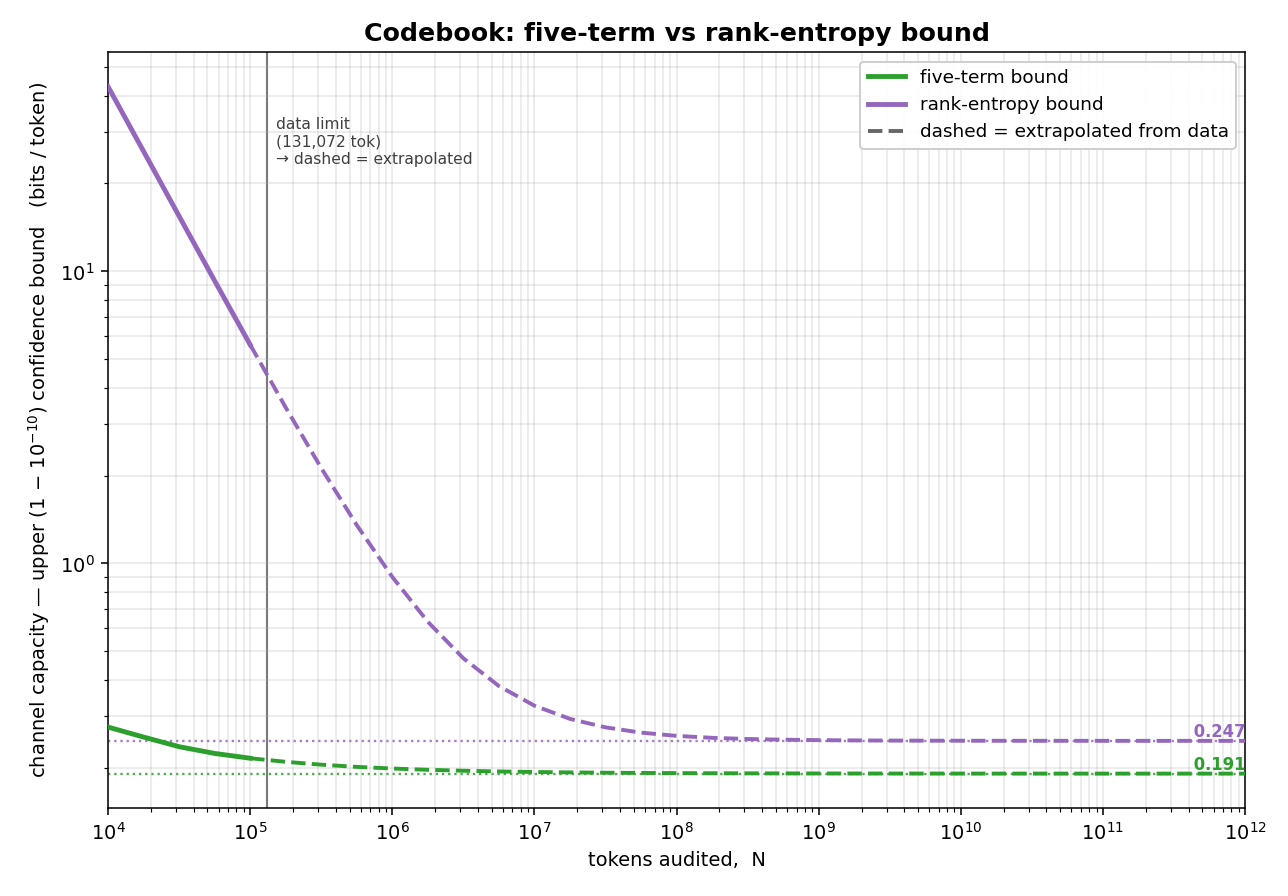
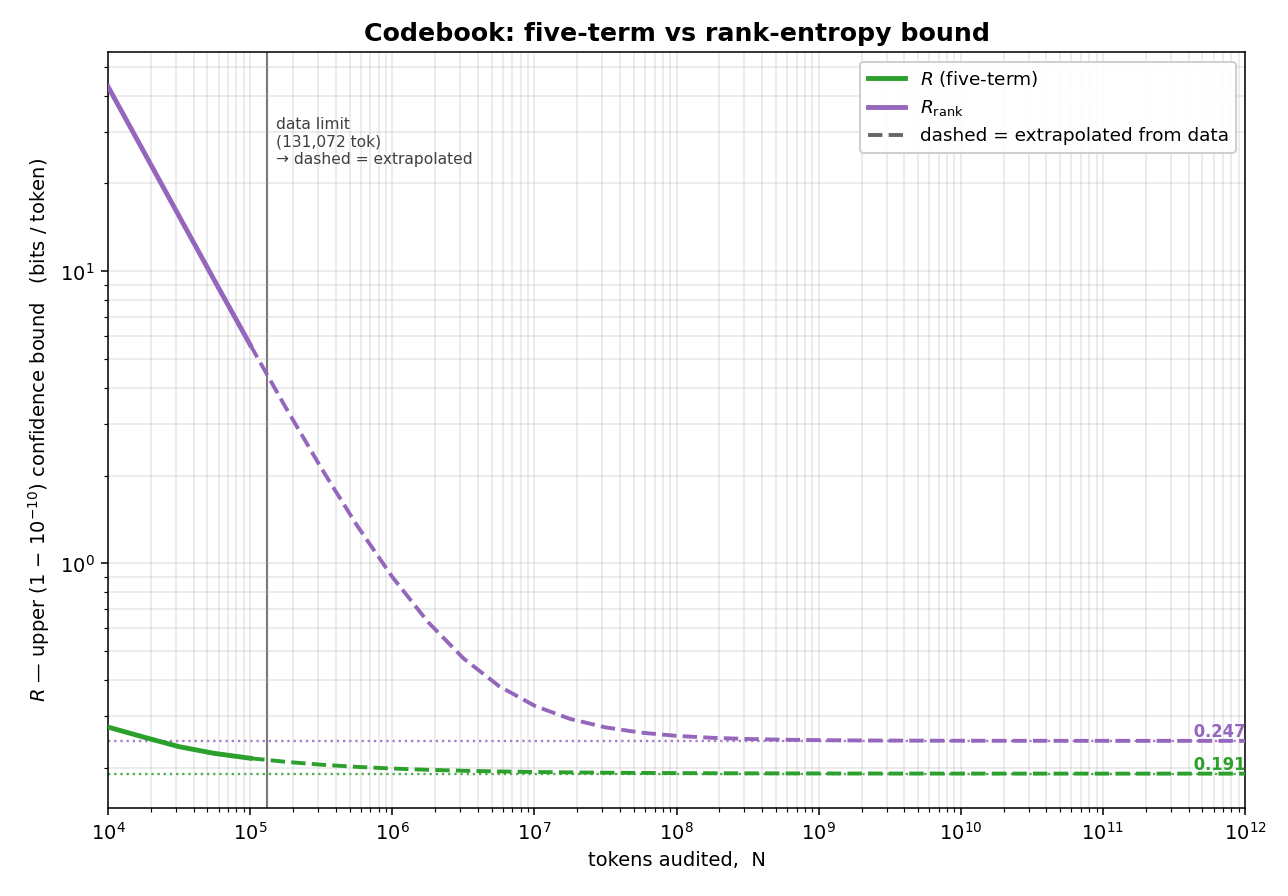
Rename y-axis to R_rank (plot 1) / R (plot 2, curves R 5-term vs R_rank)

diff --git a/buffer/rank_capacity_plots.py b/buffer/rank_capacity_plots.py
@@ -112,7 +112,7 @@ def main():
         benign_asymptote(ax, info[s]["Hrank"], info[s]["color"], XMAX)
     datalimit_marker(ax)
     ax.set_xlabel("tokens audited,  N")
-    ax.set_ylabel("channel capacity — upper (1 − 10$^{-10}$) confidence bound   "
+    ax.set_ylabel("$R_{\\mathrm{rank}}$ — upper (1 − 10$^{-10}$) confidence bound   "
                   "(bits / token)")
     ax.set_title("Rank-entropy capacity bound vs audit size", fontsize=13,
                  fontweight="bold")
@@ -127,8 +127,8 @@ def main():
     # ============================ PLOT 2 ============================ #
     d = info["codebook"]
     fig, ax = plt.subplots(figsize=(9.2, 6.4))
-    plot_line(ax, d["curve5"], "#2ca02c", "five-term bound")
-    plot_line(ax, d["curveR"], "#9467bd", "rank-entropy bound")
+    plot_line(ax, d["curve5"], "#2ca02c", "$R$ (five-term)")
+    plot_line(ax, d["curveR"], "#9467bd", "$R_{\\mathrm{rank}}$")
     ax.set_xscale("log"); ax.set_yscale("log")
     ax.set_xlim(XMIN, XMAX)
     benign_asymptote(ax, d["mu5"], "#2ca02c", XMAX)
@@ -148,8 +148,7 @@ def main():
                 f"rank-entropy wins\nN ≈ {xover:.0e}", fontsize=8, color="0.3")
 
     ax.set_xlabel("tokens audited,  N")
-    ax.set_ylabel("channel capacity — upper (1 − 10$^{-10}$) confidence bound   "
-                  "(bits / token)")
+    ax.set_ylabel("$R$ — upper (1 − 10$^{-10}$) confidence bound   (bits / token)")
     ax.set_title("Codebook: five-term vs rank-entropy bound", fontsize=13,
                  fontweight="bold")
     ax.grid(alpha=0.3, which="both")